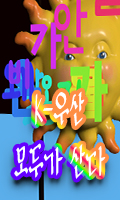
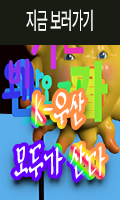
feat: 자판기 게임오버 문구 변경, 브릿지 페이지 추가, 버튼 풀너비

Changed region(s): [[0.0, 0.0, 1.0, 0.24]]

diff --git a/0727_kimbap/index3d.html b/0727_kimbap/index3d.html
@@ -758,7 +758,7 @@ function drawRoll(){
       ctx.restore();
     } else {
       // si=2: 항상 표시 — cuts가 있으면 갭으로 분할
-      if(G.stage===7 && G.cuts.length>0){
+      if(G.stage===6 && G.cuts.length>0){
         // 잘린 조각들 (cuts 기준으로 X 분할, 4px 갭)
         var cutXs=[cx-sz*0.5].concat(G.cuts.map(function(ct){return ct.x;})).concat([cx+sz*0.5]);
         cutXs.sort(function(a,b){return a-b;});
@@ -935,6 +935,8 @@ function updateShout(){
     G.blowDone = true;
     G.scores.blow = 100;
     if(G.shoutStream) G.shoutStream.getTracks().forEach(function(t){t.stop();});
+    // 훅 불기 완료 → 완성 카드 표시
+    setTimeout(function(){ showResultCard(); }, 800);
   }
 }
 
@@ -956,7 +958,7 @@ function drawShoutGauge(){
   ctx.beginPath(); ctx.moveTo(bx-10,by+35); ctx.lineTo(bx,by+50); ctx.lineTo(bx+10,by+35); ctx.fill();
 
   // 글자: 회색 베이스
-  var txt='배달 나왔습니다!';
+  var txt='주문하신 김밥 나왔습니다!';
   ctx.font='bold '+Math.round(sz*0.055)+'px Pretendard,sans-serif';
   ctx.textAlign='center'; ctx.textBaseline='middle';
   ctx.fillStyle='rgba(0,0,0,0.15)';
@@ -1107,6 +1109,8 @@ function drawCuts(){
 function showResultCard(){
   G.stage=8; // 렌더 멈춤
   var _kn = getKimbapName();
+  G.kimbapName = _kn.name;
+  G.kimbapDesc = _kn.desc || '';
   var card = document.getElementById('resultCard');
   document.getElementById('rcName').textContent = _kn.name;
   document.getElementById('rcDesc').textContent = _kn.desc;
@@ -1315,7 +1319,7 @@ document.getElementById('saveBtn').addEventListener('click', function(){
 
 // ===== 스테이지 전환 =====
 var STAGE_LABELS=['','Stage 1 — 김 펴기','Stage 2 — 밥 깔기','Stage 3 — 재료 올리기',
-  'Stage 4 — 말기','Stage 5 — 참깨 뿌리기','Stage 6 — 훅 불기','Stage 7 — 썰기','Stage 8 — 완성!'];
+  'Stage 4 — 말기','Stage 5 — 참깨 뿌리기','Stage 6 — 썰기','Stage 7 — 훅 불기','Stage 8 — 완성!'];
 var STAGE_HINTS=[
   '',
   '버텍스를 드래그해서 김을 펴주세요',
@@ -1323,8 +1327,8 @@ var STAGE_HINTS=[
   '숫자키(1~0)로 재료 선택, 클릭으로 올려요',
   '가이드선을 따라 왼→오른으로 드래그해서 마세요',
   '꾹 눌러서 참깨를 쌓아요',
-  '크게 소리를 내서 김밥을 완성해요',
   '위→아래로 드래그해서 썰어요 (6번)',
+  '크게 소리를 내서 김밥을 완성해요',
   '완성! 저장하거나 다시 만들어보세요'
 ];
 
@@ -1344,8 +1348,8 @@ function goStage(n){
   if(n===3) updateIngPanel();
   if(n===4){ setTimeout(captureRollSnap,50); }
   if(n===5){ G.sesameList=[]; }
-  if(n===6){ G.blowDone=false; G.blowGoodTime=0; G.shoutStarted=false; startShout(); }
-  if(n===7){ G.cuts=[]; G.kimbapName=''; }
+  if(n===6){ G.cuts=[]; G.kimbapName=''; }
+  if(n===7){ G.blowDone=false; G.blowGoodTime=0; G.shoutStarted=false; startShout(); }
   if(n===8){
     showResultCard();
   }
@@ -1429,17 +1433,6 @@ function draw(){
     var smsg=cnt<10?'꾹 눌러서 참깨를 쌓아요':cnt<40?'점점 많아지고 있어요!':'✅ 딱 적당해요 👍';
     document.getElementById('statusMsg').textContent=smsg;
   } else if(G.stage===6){
-    // 말기 완성 + 참깨
-    G.rollProg=1;
-    drawRoll();
-    drawSesame();
-    // "배달 나왔습니다!" 게이지
-    drawShoutGauge();
-    if(G.blowDone){
-      document.getElementById('statusMsg').textContent='완벽해요! 🎉';
-      var _sn=document.getElementById('scoreNum'); if(_sn) _sn.textContent='85점';
-    }
-  } else if(G.stage===7){
     // 말기 완성 김밥 + 참깨 표시
     G.rollProg=1;
     drawRoll();
@@ -1463,6 +1456,22 @@ function draw(){
 
     var cmsg=['슥~ 그어서 썰어주세요','한번!','두번!','세번!','네번!','다섯번!','완성! 🔪'][Math.min(6,G.cuts.length)];
     document.getElementById('statusMsg').textContent=cmsg;
+  } else if(G.stage===7){
+    // 말기 완성 + 참깨 + 잘린 갭 유지
+    G.rollProg=1;
+    drawRoll();
+    drawSesame();
+    // 이전 단계에서 잘린 갭 표시
+    G.cuts.forEach(function(cut){
+      ctx.fillStyle='#cba87a';
+      ctx.fillRect(cut.x-2, cut.y1, 4, cut.y2-cut.y1);
+    });
+    // "주문하신 김밥 나왔습니다!" 게이지
+    drawShoutGauge();
+    if(G.blowDone){
+      document.getElementById('statusMsg').textContent='완벽해요! 🎉';
+      var _sn=document.getElementById('scoreNum'); if(_sn) _sn.textContent='85점';
+    }
   } else if(G.stage===8){
     // 배경만 (뒤에 아무것도 안 그림)
   }
@@ -1517,7 +1526,7 @@ function update(){
   if(G.stage===2){ updateRice(); }
   if(G.stage===3){ updateIngAnim(); }
   if(G.stage===4 && G.mdown){ updateRoll(G.MX,G.MY); }
-  if(G.stage===7 && G.mdown){ G.slicing=true; G.slicePath=[{x:G.MX,y:G.MY}]; }
+  if(G.stage===6 && G.mdown){ G.slicing=true; G.slicePath=[{x:G.MX,y:G.MY}]; }
   if(G.stage===5){ updateSesame(); }
 }
 
@@ -1534,9 +1543,9 @@ canvas.addEventListener('mousedown', function(e){
   if(G.stage===1) startKimDrag(mx,my);
   if(G.stage===2) dropRice(mx,my);
   if(G.stage===3) dropIng(mx,my);
-  if(G.stage===7){ G.slicing=true; G.slicePath=[{x:mx,y:my}]; }
+  if(G.stage===6){ G.slicing=true; G.slicePath=[{x:mx,y:my}]; }
   if(G.stage===5){ dropSesame(mx,my); G.sesameLastDrop=Date.now(); }
-  if(G.stage===7){
+  if(G.stage===6){
     G.cutDragging=true;
     G.cutStart={x:mx,y:my};
   }
@@ -1547,7 +1556,7 @@ canvas.addEventListener('contextmenu', function(e){
 });
 canvas.addEventListener('mousemove', function(e){
   G.MX=e.clientX; G.MY=e.clientY;
-  if(G.stage===7 && G.slicing){
+  if(G.stage===6 && G.slicing){
     if(G.slicePath) G.slicePath.push({x:G.MX,y:G.MY});
     // 실시간 썰기: 마우스가 김밥 Y 범위 안에 있으면 즉시 잘림
     var kimT7=cy-sz*0.15, kimB7=cy+sz*0.15;
@@ -1559,7 +1568,7 @@ canvas.addEventListener('mousemove', function(e){
         G.rollWobbleV=-3;
         // 6번 이상이면 완료
         if(G.cuts.length>=6){
-          setTimeout(function(){ showResultCard(); }, 600);
+          setTimeout(function(){ goStage(7); }, 600);
         }
       }
     }
@@ -1596,7 +1605,7 @@ canvas.addEventListener('mouseup', function(e){
   G.kimDragging=-1;
   G.riceHoldTimer=0;
   G.ingHoldTimer=0;
-  if(G.stage===7 && G.cutDragging && G.cutStart){
+  if(G.stage===6 && G.cutDragging && G.cutStart){
     var ex=e.clientX, ey=e.clientY;
     if(checkCut(G.cutStart.x,G.cutStart.y,ex,ey)){
       G.cuts.push({x1:G.cutStart.x,y1:G.cutStart.y,x2:ex,y2:ey});
@@ -1605,7 +1614,7 @@ canvas.addEventListener('mouseup', function(e){
     G.cutDragging=false; G.cutStart=null;
   }
   if(G.stage===4) G.rollPrevX=-1;
-  if(G.stage===7) {
+  if(G.stage===6) {
     G.slicing=false;
     // 궤적이 김밥을 관통했는지 체크
     if(G.slicePath && G.slicePath.length>0){
@@ -1649,8 +1658,8 @@ window.addEventListener('keydown', function(e){
     if(s===1||s===2||s===3) goStage(s+1);
     else if(s===4&&G.rollDone) goStage(5);
     else if(s===5&&G.sesameList.length>=40) goStage(6);
-    else if(s===6) goStage(7); // 테스트용: 마이크 스킵
-    else if(s===7){ showResultCard(); }
+    else if(s===6&&G.cuts.length>=6) goStage(7);
+    else if(s===7&&G.blowDone){ showResultCard(); }
   }
 });
 window.addEventListener('keyup', function(e){

diff --git a/0728_자판기/style.css b/0728_자판기/style.css
@@ -221,8 +221,8 @@ body{
 .coin-layer{position:fixed;top:0;left:0;width:100%;height:100%;pointer-events:none;z-index:999;}
 /* 오버레이 */
 .overlay{position:fixed;inset:0;display:flex;align-items:center;justify-content:center;z-index:1000;text-align:center;cursor:pointer;flex-direction:column;}
-.overlay.go{background:rgba(255,0,0,0.9);color:#fff;font-size:22px;}
-.overlay span{display:block;font-size:11px;color:rgba(255,255,255,0.6);margin-top:8px;}
+.overlay.go{background:rgba(255,0,0,0.9);color:#fff;font-size:110px;}
+.overlay span{display:block;font-size:40px;color:rgba(255,255,255,0.6);margin-top:20px;}
 /* 이스터에그/클리어 */
 .overlay.easter{background:radial-gradient(circle,#ffd700,#ff8c00,#000);animation:easterFlash 0.5s infinite alternate;}
 @keyframes easterFlash{0%{background:radial-gradient(circle,#ffd700,#ff8c00,#000)}100%{background:radial-gradient(circle,#fff,#ffd700,#220000)}}

diff --git a/bridge.html b/bridge.html
@@ -174,6 +174,14 @@
                 path: './0727_kimbap/index3d.html',
                 category: '게임',
                 date: '2026.07.27'
+            },
+            {
+                icon: '💰',
+                title: '자판기 도박',
+                description: '100원으로 인생역전 가능하읍니다. 돈을 벌어 세계정복을 하라.',
+                path: './0728_자판기/index.html',
+                category: '게임',
+                date: '2026.07.28'
             }
         ];
 
